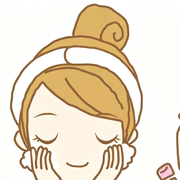
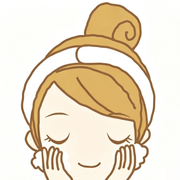
Add files via upload

diff --git a/index.html b/index.html
@@ -1,8 +1,8 @@
 <!DOCTYPE html>
 <html lang="zh-Hant"><head><meta charset="utf-8">
 <meta name="viewport" content="width=device-width, initial-scale=1, viewport-fit=cover">
-<title>今日保養</title><meta name="theme-color" content="#3A3358"><meta name="mobile-web-app-capable" content="yes"><meta name="apple-mobile-web-app-capable" content="yes"><meta name="apple-mobile-web-app-title" content="今日保養"><meta name="apple-mobile-web-app-status-bar-style" content="black-translucent"><link rel="apple-touch-icon" href="apple-touch-icon.png"><link rel="icon" href="icon-192.png"><link rel="manifest" href="manifest.webmanifest">
-<link href="https://fonts.googleapis.com/css2?family=Noto+Sans+TC:wght@400;500;700&display=swap" rel="stylesheet">
+<title>今日保養</title><meta name="theme-color" content="#F3F1F7"><meta name="mobile-web-app-capable" content="yes"><meta name="apple-mobile-web-app-capable" content="yes"><meta name="apple-mobile-web-app-title" content="今日保養"><meta name="apple-mobile-web-app-status-bar-style" content="black-translucent"><link rel="apple-touch-icon" href="apple-touch-icon.png"><link rel="icon" href="icon-192.png"><link rel="manifest" href="manifest.webmanifest">
+
 <style>
 :root{--bg:#F3F1F7;--card:#fff;--ink:#251F33;--sub:#6B6580;--line:#E3DFEC;--ep:#5B3FB5;--epb:#ECE6FA;--no:#B26A00;--nob:#FFF0CC;--pd:#0E7A5F;--pdb:#DDF3EB;--sun:#1D64B0;--sunb:#E1EDFA;--dark:#3A3358}
 @media (prefers-color-scheme:dark){:root:not([data-theme="light"]){--bg:#17141F;--card:#221E2E;--ink:#F0EDF7;--sub:#A59FBA;--line:#352F45;--epb:#2E2550;--nob:#3A2D0E;--pdb:#0F3329;--sunb:#13304F;--ep:#B7A3F5;--no:#F2B53D;--pd:#5FD0AE;--sun:#7DB6F2;--dark:#5B5280}}
